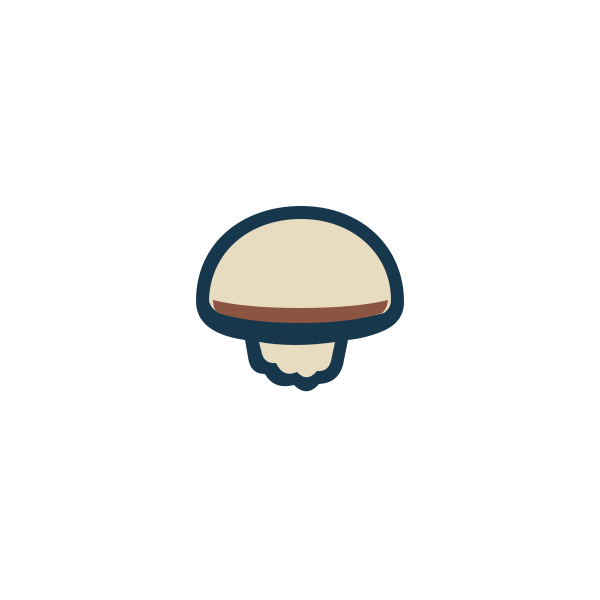
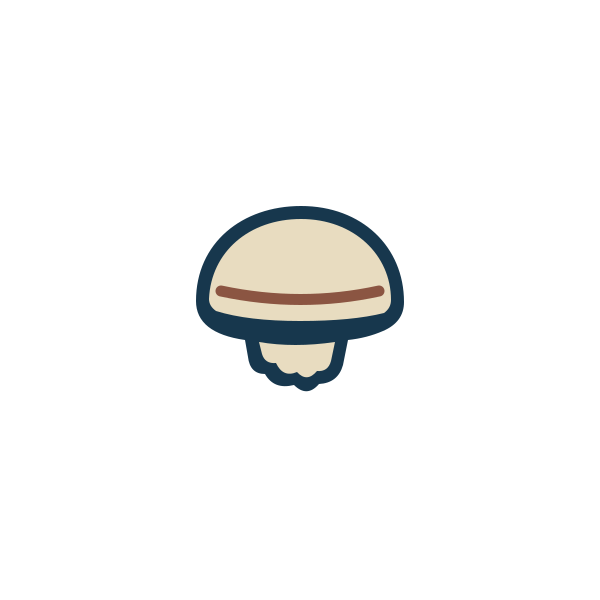
Bring cannonball jelly rim up to embroidery minimum

Changed region(s): [[0.36, 0.48, 0.66, 0.54]]

diff --git a/docs/supplier-coastal-motif-and-conversion-plan.md b/docs/supplier-coastal-motif-and-conversion-plan.md
@@ -61,10 +61,16 @@ The source designs were drawn for ShoreList. Both rendered as transparent 600 ×
 
 | Candidate | Artwork to upload | SHA-256 |
 |---|---|---|
[3 lines of base64/hex data omitted]
 
 Both PNGs have transparent backgrounds and 150 dpi resolution metadata. Use the left-chest region on the verified SOL'S 11362 blank. At that scale, keep the visible motifs at 1.39 in and 1.52 in wide respectively. Digitization, thread selection and a physical stitch proof are still pending. Treat these files as draft artwork and keep them out of customer-facing imagery.
+
+### November 28 follow-up
+
+- **VERIFIED:** Replaced the cannonball's tapered chestnut rim with an 11 px round-ended stroke (1.86 mm at 150 dpi). The exported PNG has at least 10 fully opaque chestnut pixels across the vertical cross-sections between the end-cap centers, with at least 14 fully opaque oyster pixels below the rim before the navy contour. Its overall width is still 208 px. This is an artwork measurement against AR8. Thread choice, stitch density and the physical result remain **UNKNOWN**.
+- **VERIFIED:** The Fourthwall public template records for SOL'S 11362, Knitwise K01 and K30 returned HTTP 200. The records provide template base prices. Freight to Wilmington, total landed cost and a shopper purchase path for the proposed ShoreList products remain **UNKNOWN**. Use each template's delivery estimate and the exact product's checkout before making any retail shipping claim. [Fourthwall shipping guidance](https://help.fourthwall.com/frequently-asked-questions/shipping-and-orders/shipping-costs)
+- **UNKNOWN:** The authenticated CJ catalog session was unavailable in this workspace. The mint-stripe chair remains the first draft to reconcile. Match SKU `CJLY36122900001` to its CJ variant ID, image and US warehouse before using the existing ZIP coverage commands. Apply the same check to umbrella SKU `CJZS31328570001` next. Shopify inventory counts cannot establish supplier stock or freight.
 
 ## Uploaded conversion blueprint: implementation reconciliation
 
